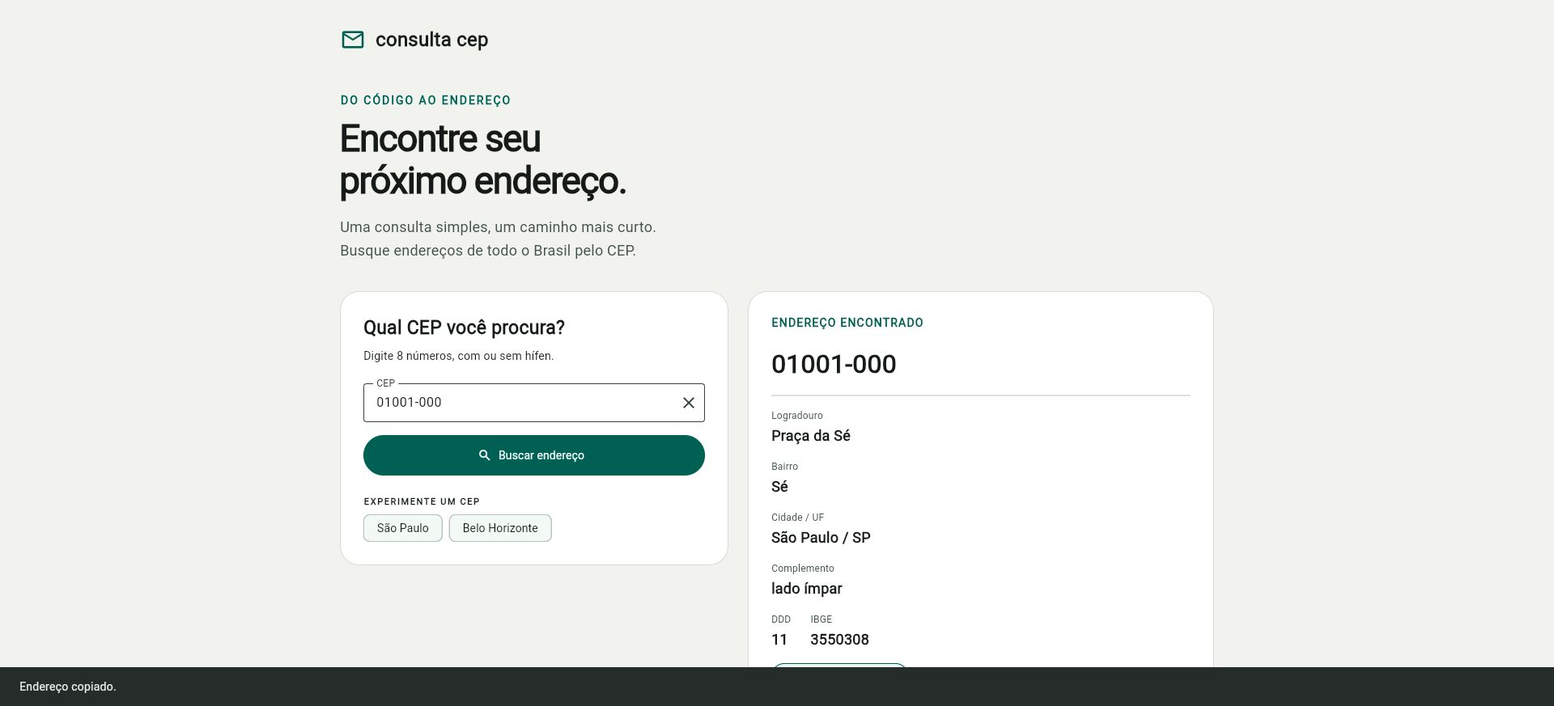
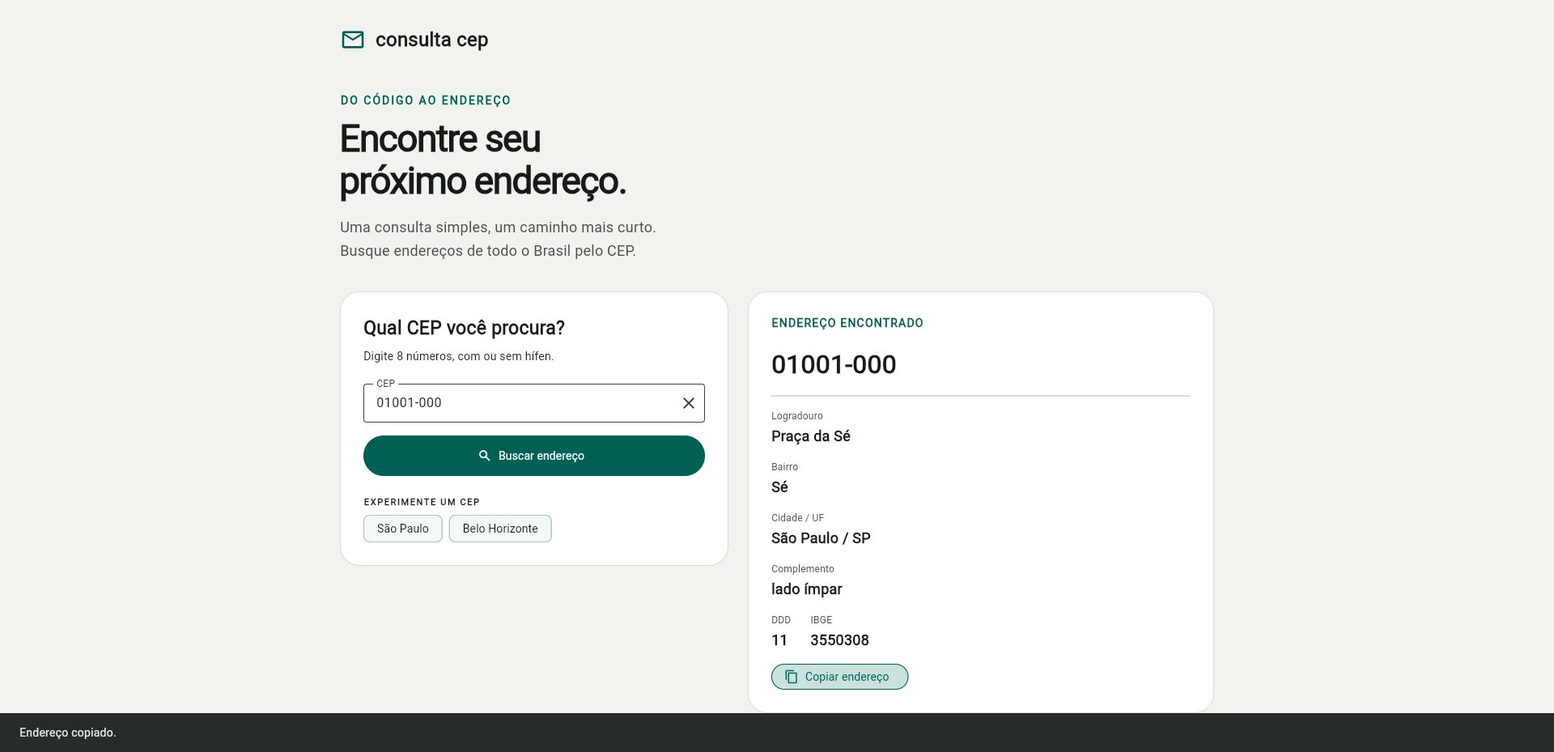
docs: align lesson and evidence with Flutter 3.50
Update verified requirements, badges, source excerpts and real screenshots. Explain the two remaining upstream SDK constraints and retain the actual resolver report and validation log.

diff --git a/docs/medium/article.pt-BR.html b/docs/medium/article.pt-BR.html
@@ -2,12 +2,12 @@
 <figure><img src="https://raw.githubusercontent.com/kleberandrade/search-cep-aulas-flutter/master/docs/medium/cover.png" alt="Capa: Consultando CEPs com Flutter. Envelope com símbolo Flutter, marcador de localização e mapa do Brasil em tons de verde. Subtítulo: Da validação ao endereço com ViaCEP."><figcaption>Ilustração de capa criada com auxílio de IA para esta atualização. As telas ao longo da aula são capturas reais do aplicativo.</figcaption></figure>
 <p>Como transformar oito números em um endereço legível? Nesta aula vamos consultar o ViaCEP com Flutter, validar a entrada antes de acessar a rede e apresentar o resultado em uma interface acessível. O objetivo é compreender cada responsabilidade, do campo de texto até a resposta HTTP, e aprender a lidar com os caminhos em que a consulta falha.</p>
 <p>O CEP — Código de Endereçamento Postal — tem oito algarismos. Ele pode identificar um logradouro, uma localidade ou uma unidade específica. Por isso, um retorno sem rua ou bairro não significa necessariamente um erro. Os zeros à esquerda também fazem parte do código: CEP é texto, não um número para fazer contas.</p>
-<p><strong>Atualização da aula, novembro de 2026:</strong> o projeto foi migrado para Flutter 3.41.9, Dart 3.11.5, null safety e Material 3. O título, a autoria e a finalidade desta nota de aula de 2019 foram mantidos. Os exemplos abaixo acompanham o código atual do repositório; os antigos componentes e capturas foram substituídos.</p>
+<p><strong>Atualização da aula, novembro de 2026:</strong> o projeto foi migrado para Flutter 3.50.0, Dart 3.14.0, null safety e Material 3. O título, a autoria e a finalidade desta nota de aula de 2019 foram mantidos. Os exemplos abaixo acompanham o código atual do repositório; os antigos componentes e capturas foram substituídos.</p>
 <h2>O que você vai aprender</h2>
 <ul><li>Validar e normalizar um CEP sem perder zeros à esquerda.</li><li>Fazer uma requisição HTTPS com um cliente HTTP que pode ser substituído nos testes.</li><li>Converter JSON em um endereço imutável e validar dados externos.</li><li>Distinguir carregamento, sucesso, entrada inválida, CEP inexistente e falha de conexão.</li><li>Impedir que uma resposta atrasada substitua uma pesquisa mais recente.</li><li>Testar a lógica e a interface usando exemplos controlados.</li></ul>
 <h2>1. Prepare o laboratório</h2>
-<p>Você precisa conhecer classes, funções e widgets básicos do Flutter. Instale Flutter 3.41.9 stable com o Dart 3.11.5 que acompanha essa versão e tenha Chrome disponível. Nesta aula usaremos a Web para facilitar a experimentação; não é necessário configurar um emulador ou obter uma chave de API.</p>
-<p>Clone a versão completa para executar o laboratório. Os blocos a seguir analisam partes do projeto, não substituem todos os arquivos de um aplicativo criado do zero.</p>
+<p>Você precisa conhecer classes, funções e widgets básicos do Flutter. Instale Flutter 3.50.0 stable com o Dart 3.14.0 que acompanha essa versão e tenha Chrome disponível. Nesta aula usaremos a Web para facilitar a experimentação; não é necessário configurar um emulador ou obter uma chave de API.</p>
+<p>O arquivo <code>.fvmrc</code> registra Flutter 3.50.0 para quem usa FVM. Você também pode selecionar essa versão pela instalação oficial do Flutter. Confirme que <code>flutter --version</code> mostra Flutter 3.50.0 e Dart 3.14.0 antes de continuar. Clone a versão completa para executar o laboratório. Os blocos a seguir analisam partes do projeto, não substituem todos os arquivos de um aplicativo criado do zero.</p>
 <pre><code class="language-bash">git clone https://github.com/kleberandrade/search-cep-aulas-flutter.git
 cd search-cep-aulas-flutter
 flutter --version
@@ -16,20 +16,19 @@ flutter run -d chrome</code></pre>
 <p><strong>Checkpoint:</strong> a tela deve mostrar o campo CEP, o botão “Buscar endereço” e um painel aguardando a primeira consulta. Se o Flutter não encontrar Chrome, verifique os dispositivos com <code>flutter devices</code>.</p>
 <figure><img src="https://raw.githubusercontent.com/kleberandrade/search-cep-aulas-flutter/master/docs/screenshots/web-empty.jpg" alt="Tela inicial do Consulta CEP no navegador, com campo CEP, botão Buscar endereço, exemplos e painel aguardando a consulta."><figcaption>Figura 1 — Estado inicial real: o formulário explica o formato aceito e o painel informa onde aparecerá o resultado.</figcaption></figure>
 <h2>2. Entenda as dependências</h2>
-<p>O <a href="https://github.com/kleberandrade/search-cep-aulas-flutter/blob/master/pubspec.yaml">pubspec.yaml</a> declara <code>http: ^1.6.0</code> para as requisições e <code>flutter_lints: ^6.0.0</code> para análise estática. <code>flutter_localizations</code> e <code>flutter_test</code> vêm do SDK. O projeto não precisa de Firebase, cadastro nem banco de dados.</p>
+<p>O <a href="https://github.com/kleberandrade/search-cep-aulas-flutter/blob/master/pubspec.yaml">pubspec.yaml</a> declara <code>http: ^1.6.0</code> para as requisições e <code>flutter_lints: ^6.0.0</code> para análise estática. <code>material_ui: ^1.11.1</code> fornece os widgets Material e suas traduções; <code>flutter_test</code> vem do SDK. No Flutter 3.50, usamos <code>package:material_ui/material_ui.dart</code> no lugar do import Material que foi descontinuado dentro do framework. As traduções continuam configuradas por <code>GlobalMaterialLocalizations.delegates</code>. O projeto não precisa de Firebase, cadastro nem banco de dados.</p>
 <pre><code class="language-yaml">name: search_cep
 description: Accessible Brazilian postal code lookup with Flutter and ViaCEP.
 publish_to: none
 version: 2.0.0+2
 environment:
-  sdk: &#x27;&gt;=3.11.0 &lt;4.0.0&#x27;
-  flutter: &#x27;&gt;=3.41.0&#x27;
+  sdk: &#x27;&gt;=3.14.0 &lt;4.0.0&#x27;
+  flutter: &#x27;&gt;=3.50.0&#x27;
 dependencies:
   flutter:
     sdk: flutter
-  flutter_localizations:
-    sdk: flutter
   http: ^1.6.0
+  material_ui: ^1.11.1
 dev_dependencies:
   flutter_test:
     sdk: flutter
@@ -43,7 +42,7 @@ flutter:
 flutter pub upgrade --major-versions
 flutter analyze
 flutter test</code></pre>
-<p>Na verificação desta atualização, todas as dependências diretas e de desenvolvimento já estavam atualizadas. Nove dependências transitivas têm versões mais novas, mas continuam fixadas pelas restrições compatíveis com este SDK. A versão “Latest” exibida pelo Pub não significa, por si só, que ela pode ser usada com o Flutter instalado. Mantenha o conjunto coerente ao atualizar o SDK.</p>
+<p>A atualização para Flutter 3.50.0 e Dart 3.14.0 permitiu avançar oito dos nove pacotes transitivos antes desatualizados. Sete chegaram à versão mais recente: clock 1.1.3, intl 0.20.3, matcher 0.12.20, meta 1.19.0, stack_trace 1.12.2, vector_math 2.4.4 e web 1.1.2. O test_api também avançou, de 0.7.10 para 0.7.14, mas a versão mais nova é 0.7.15. O SDK estável ainda fixa material_color_utilities em 0.13.0 e flutter_test fixa test_api em 0.7.14. Por isso, essas duas versões mais novas não são resolvíveis neste conjunto. Não alteramos o SDK nem usamos overrides para forçar a resolução. A coluna “Latest” do Pub mostra a versão publicada; “Resolvable” mostra o que pode ser usado com o conjunto instalado.</p>
 <h2>3. API, HTTPS e JSON: o caminho da consulta</h2>
 <p>Uma API é uma interface pela qual programas trocam informações. Aqui o aplicativo envia uma requisição GET ao ViaCEP e recebe um documento JSON. JSON é o formato dos dados; o endereço na tela é a interpretação desses dados pelo nosso código.</p>
 <pre><code class="language-plaintext">https://viacep.com.br/ws/01001000/json/</code></pre>
@@ -235,7 +234,7 @@ class SearchController extends ChangeNotifier {
 }</code></pre>
 <p>Observe a sequência em <code>search</code>: validar, emitir carregamento, esperar o serviço e publicar o resultado se a geração ainda for atual. <code>inputChanged</code> invalida a consulta anterior, e <code>dispose</code> impede notificações depois que o controlador foi encerrado.</p>
 <h2>8. Apresente informações em vez de JSON bruto</h2>
-<p>Em <a href="https://github.com/kleberandrade/search-cep-aulas-flutter/blob/master/lib/main.dart">main.dart</a>, <code>CepApp</code> configura Material 3 e a localização em português. O widget proprietário cria o cliente e o controlador quando eles não são injetados e libera esses recursos no descarte. A <a href="https://github.com/kleberandrade/search-cep-aulas-flutter/blob/master/lib/views/home_page.dart">HomePage completa</a> separa formulário, painel de status e cartão de endereço em widgets.</p>
+<p>Em <a href="https://github.com/kleberandrade/search-cep-aulas-flutter/blob/master/lib/main.dart">main.dart</a>, <code>CepApp</code> configura Material 3 e a localização em português usando o pacote independente <code>material_ui</code>. O widget proprietário cria o cliente e o controlador quando eles não são injetados e libera esses recursos no descarte. A <a href="https://github.com/kleberandrade/search-cep-aulas-flutter/blob/master/lib/views/home_page.dart">HomePage completa</a> separa formulário, painel de status e cartão de endereço em widgets.</p>
 <p>O campo usa <code>TextInputAction.search</code>: pressionar Enter realiza a busca. O botão Limpar CEP apaga entrada e resultado e devolve o foco ao campo. O texto permanece editável durante a consulta, e os estados de carregamento e erro não bloqueiam uma nova tentativa.</p>
 <p>Este trecho real de <code>HomePage</code> escolhe a apresentação de cada estado:</p>
 <pre><code class="language-dart">  Widget _result(search.SearchState state) =&gt; switch (state) {
@@ -255,8 +254,7 @@ class SearchController extends ChangeNotifier {
     search.SearchIdle() =&gt; const _StatusPanel(
       icon: Icons.location_on_outlined,
       title: &#x27;Seu próximo destino começa aqui&#x27;,
-      message:
-          &#x27;O endereço aparecerá aqui após a consulta.\nSe preferir, comece por um dos exemplos.&#x27;,
+      message: &#x27;O endereço aparecerá aqui após a consulta.\nSe preferir, comece por um dos exemplos.&#x27;,
     ),
   };</code></pre>
 <p>O retorno é exibido em campos selecionáveis: CEP, logradouro, bairro, cidade/UF, complemento, DDD e IBGE, conforme o que o serviço informar. Os valores também possuem rótulos acessíveis, e as mudanças de estado são anunciadas pela semântica do Flutter. O botão Copiar endereço mostra uma confirmação; se a área de transferência falhar, o texto continua disponível para seleção.</p>
@@ -276,7 +274,7 @@ flutter build web</code></pre>
 <p>O código dos testes está em <a href="https://github.com/kleberandrade/search-cep-aulas-flutter/blob/master/test/lookup_test.dart">test/lookup_test.dart</a>, <a href="https://github.com/kleberandrade/search-cep-aulas-flutter/blob/master/test/demo_test.dart">test/demo_test.dart</a> e <a href="https://github.com/kleberandrade/search-cep-aulas-flutter/blob/master/test/widget_test.dart">test/widget_test.dart</a>. Eles usam fixtures e <code>MockClient</code>; não acessam a API real. Na validação desta versão, 21 testes passaram e a cobertura de linhas medida foi de 90,8%. Esse número não substitui os cenários de teste nem representa cobertura de mutação.</p>
 <p>Para uma verificação separada contra o serviço real, use:</p>
 <pre><code class="language-bash">dart run tool/smoke.dart</code></pre>
-<p>O comando consulta <code>01001-000</code> e confere São Paulo/SP. Ele depende da rede e da disponibilidade do ViaCEP e não faz parte da suíte determinística do CI. O build Web e a consulta pelo navegador foram validados; macOS debug e iOS sem assinatura também compilaram. Isso não equivale a teste em telefone físico. Android ainda depende de licenças aceitas pelo desenvolvedor; macOS release apresentou uma limitação de empacotamento nesta combinação de ferramentas.</p>
+<p>O comando consulta <code>01001-000</code> e confere São Paulo/SP. Ele depende da rede e da disponibilidade do ViaCEP e não faz parte da suíte determinística do CI. O build Web e a consulta pelo navegador foram validados; macOS debug e iOS sem assinatura também compilaram. Isso não equivale a teste em telefone físico. Android ainda depende de licenças aceitas pelo desenvolvedor. Com Flutter 3.50.0, o build macOS release e o build iOS sem assinatura passaram; a falha anterior de empacotamento macOS não se repetiu. Compilar não substitui a verificação de interação em cada plataforma.</p>
 <h2>Exercícios para continuar a aula</h2>
 <ol><li>Acrescente alternância entre temas claro e escuro usando <code>ThemeMode</code>. Verifique o contraste nos dois temas.</li><li>Adicione outro exemplo offline e um teste que confirme o endereço correto. Mantenha clara a diferença entre demonstração e consulta real.</li><li>Teste navegação com Tab, Enter e leitor de tela. Confira os valores do endereço, não apenas os títulos dos campos.</li><li>Escreva um teste em que a primeira busca termina depois da segunda e explique por que a geração impede o resultado antigo.</li><li>Se implementar histórico, defina uma ação de limpeza e teste a migração antes de alterar o formato armazenado.</li></ol>
 <p>Validação e tratamento de erro, antes propostos como desafios, agora fazem parte da implementação. Os componentes nativos de status e <code>SnackBar</code> atendem às mensagens desta aula. As antigas sugestões de <code>dynamic_theme</code>, <code>flushbar</code> e <code>share</code> não são dependências atuais do projeto.</p>

diff --git a/README.md b/README.md
@@ -1,7 +1,7 @@
 # Brazilian Postal Code Lookup
 
-[![Flutter 3.41.9](https://img.shields.io/badge/Flutter-3.41.9-02569B)](https://docs.flutter.dev/)
-[![Dart 3.11.5](https://img.shields.io/badge/Dart-3.11.5-0175C2)](https://dart.dev/)
+[![Flutter 3.50.0](https://img.shields.io/badge/Flutter-3.50.0-02569B)](https://docs.flutter.dev/)
+[![Dart 3.14.0](https://img.shields.io/badge/Dart-3.14.0-0175C2)](https://dart.dev/)
 [![License MIT](https://img.shields.io/badge/License-MIT-555555)](LICENSE)
 
 A Flutter classroom app for looking up Brazilian postal codes through [ViaCEP](https://viacep.com.br/). It validates input, handles service failures, and presents selectable address details in a responsive Material 3 interface. No API key, Firebase project, account, or database is needed.
@@ -10,7 +10,18 @@ A Flutter classroom app for looking up Brazilian postal codes through [ViaCEP](h
 
 ## Run
 
-Verified toolchain: Flutter **3.41.9** stable with Dart **3.11.5**, Chrome 157, and Xcode 27.2 on macOS. The manifest requires Dart >=3.11.0 <4.0.0 and Flutter >=3.41.0. Use the pinned toolchain for reproducible builds; newer SDKs have not been verified.
+Install the pinned SDK through the [official Flutter instructions](https://docs.flutter.dev/install/manual), or use `fvm use 3.50.0` if you manage SDKs with FVM. An isolated tagged checkout is another reproducible option after cloning this repository:
+
+```sh
+git clone --depth 1 --branch 3.50.0 https://github.com/flutter/flutter.git ../flutter-3.50.0
+export PATH="$PWD/../flutter-3.50.0/bin:$PATH"
+flutter --version
+```
+
+This selects the new SDK only in the current terminal; it does not upgrade the SDK used by other projects.
+
+
+Verified toolchain: Flutter **3.50.0** stable with Dart **3.14.0**, Chrome 157, and Xcode 27.2 on macOS. The manifest requires Dart >=3.14.0 <4.0.0 and Flutter >=3.50.0. The project pins Flutter 3.50.0 in `.fvmrc` and CI. Use this SDK for all commands below; Dart comes bundled with Flutter. The shared system installation is not modified by this project.
 
 ```sh
 git clone https://github.com/kleberandrade/search-cep-aulas-flutter.git
@@ -52,7 +63,7 @@ flutter build web
 # Optional integration check: contacts the actual external service
 dart run tool/smoke.dart
 # Native builds require the corresponding local toolchain
-flutter build macos --debug
+flutter build macos
 flutter build ios --no-codesign
 flutter build apk --debug
 ```
@@ -71,9 +82,11 @@ Open `http://127.0.0.1:8766`. A production host must serve the generated `build/
 
 ## Migration from the 2019 classroom version
 
-Dart 2 nullable mutable fields were replaced with Dart 3 null-safe immutable boundary parsing. `RaisedButton` was replaced with Material 3 buttons, raw JSON output with address fields, and static `fetchCep` with an injected service: `ViaCepService(client).lookup(Cep.parse(input))`. The HTTP client belongs to the caller, which must close it. Code using the old internal Dart API must adopt this call; this application is not a published package.
+Dart 2 nullable mutable fields were replaced with Dart 3 null-safe immutable boundary parsing. The current Flutter 3.50 migration uses the official standalone `material_ui` 1.11.1 package and its localization delegates, replacing the deprecated `package:flutter/material.dart` imports. `flutter_localizations` is now transitive rather than an application dependency. `RaisedButton` was replaced with Material 3 buttons, raw JSON output with address fields, and static `fetchCep` with an injected service: `ViaCepService(client).lookup(Cep.parse(input))`. The HTTP client belongs to the caller, which must close it. Code using the old internal Dart API must adopt this call; this application is not a published package.
 
 Android now uses the Flutter plugin DSL, Kotlin 2.2.20, AGP 8.11.1, Gradle 8.14 and Java 17 source compatibility; SDK levels follow the installed Flutter defaults. INTERNET permission is present in the release manifest. Android retains `com.example.search_cep` and iOS retains `com.example.searchCep`; configure signing and a production identifier before distributing your own app. Local SDK paths and generated registrants are no longer tracked.
+
+The Flutter 3.50 upgrade advanced eight of the nine previously outdated transitives: clock 1.1.3, intl 0.20.3, matcher 0.12.20, meta 1.19.0, stack_trace 1.12.2, test_api 0.7.14, vector_math 2.4.4 and web 1.1.2. Seven reached the latest available version. Two newer versions remain blocked by exact constraints in the official stable SDK: `material_color_utilities` is pinned to 0.13.0 (latest 0.13.1), and `flutter_test` pins `test_api` to 0.7.14 (latest 0.7.15). No SDK edits or dependency overrides are used. See `docs/dependencies-flutter-3.50.json` for the actual resolver report.
 
 The iOS runner uses the modern Flutter scene lifecycle; its minimum target is iOS 15. macOS minimum is 12 to match the available Xcode toolchain. Web and macOS runners were added from the installed Flutter templates. Original iOS artwork and MIT attribution are preserved. Android licenses must be accepted by the developer, never by automation. No persistent store existed before or after this migration, so no data migration is needed.
 

diff --git a/docs/medium-update.pt-BR.md b/docs/medium-update.pt-BR.md
@@ -14,7 +14,7 @@ Preserve o título “Consultando CEPs com Flutter”, o subtítulo “Notas de 
 
 ## Texto de atualização para inserir após a introdução
 
-Esta aula foi atualizada para Flutter 3.41.9 e Dart 3.11.5, com null safety e Material 3. Vamos consultar o ViaCEP sem chave de API, validar o CEP antes da requisição e apresentar um endereço legível. Também vamos tratar conexão indisponível, timeout, CEP inexistente e respostas inválidas. A consulta é enviada ao ViaCEP; o aplicativo não salva histórico nem endereços no dispositivo.
+Esta aula foi atualizada para Flutter 3.50.0 e Dart 3.14.0, com null safety e Material 3. Vamos consultar o ViaCEP sem chave de API, validar o CEP antes da requisição e apresentar um endereço legível. Também vamos tratar conexão indisponível, timeout, CEP inexistente e respostas inválidas. A consulta é enviada ao ViaCEP; o aplicativo não salva histórico nem endereços no dispositivo.
 
 ## Criando e executando o projeto
 
@@ -28,7 +28,7 @@ flutter pub get
 flutter run -d chrome
 ```
 
-A versão verificada é Flutter 3.41.9 com Dart 3.11.5. Para experimentar o exemplo local, sem fazer consultas externas, execute:
+A versão verificada é Flutter 3.50.0 com Dart 3.14.0. Para experimentar o exemplo local, sem fazer consultas externas, execute:
 
 ```sh
 flutter run -d chrome --dart-define=DEMO=true
@@ -60,7 +60,7 @@ Use HTTPS e mantenha o CEP da URL coerente com o retorno. O artigo antigo exibia
 
 ## Dependências e código completo atualizado
 
-Substitua os embeds correspondentes às seções Dependências, Classe ResultCep, Classe ViaCepService, Classe Principal e Classe HomePage pelos respectivos arquivos abaixo. As seções de Cep e SearchController são novas. A classe de modelo converte dados em memória; não existe persistência neste exemplo. A biblioteca `http` recebe um `Uri` e um cliente injetável, que é fechado pelo proprietário da aplicação.
+Substitua os embeds correspondentes às seções Dependências, Classe ResultCep, Classe ViaCepService, Classe Principal e Classe HomePage pelos respectivos arquivos abaixo. As seções de Cep e SearchController são novas. A classe de modelo converte dados em memória; não existe persistência neste exemplo. No Flutter 3.50, a interface importa `package:material_ui/material_ui.dart`; os delegates de localização vêm desse pacote. A biblioteca `http` recebe um `Uri` e um cliente injetável, que é fechado pelo proprietário da aplicação.
 
 ### `pubspec.yaml`
 
@@ -70,14 +70,13 @@ description: Accessible Brazilian postal code lookup with Flutter and ViaCEP.
 publish_to: none
 version: 2.0.0+2
 environment:
-  sdk: '>=3.11.0 <4.0.0'
-  flutter: '>=3.41.0'
+  sdk: '>=3.14.0 <4.0.0'
+  flutter: '>=3.50.0'
 dependencies:
   flutter:
     sdk: flutter
-  flutter_localizations:
-    sdk: flutter
   http: ^1.6.0
+  material_ui: ^1.11.1
 dev_dependencies:
   flutter_test:
     sdk: flutter
@@ -112,6 +111,7 @@ final class Cep {
 
 ```dart
 import 'dart:convert';
+
 import '../domain/cep.dart';
 
 /// Immutable validated response. Empty optional fields are legitimate in ViaCEP.
@@ -176,7 +176,9 @@ final class ResultCep {
 ```dart
 import 'dart:async';
 import 'dart:convert';
+
 import 'package:http/http.dart' as http;
+
 import '../domain/cep.dart';
 import '../models/result_cep.dart';
 
@@ -247,6 +249,7 @@ class ViaCepService implements AddressLookup {
 
 ```dart
 import 'package:flutter/services.dart';
+
 import '../domain/cep.dart';
 import '../models/result_cep.dart';
 import 'via_cep_service.dart';
@@ -269,6 +272,7 @@ final class DemoCepService implements AddressLookup {
 
 ```dart
 import 'package:flutter/foundation.dart';
+
 import '../domain/cep.dart';
 import '../models/result_cep.dart';
 import '../services/via_cep_service.dart';
@@ -346,9 +350,9 @@ class SearchController extends ChangeNotifier {
 ### `lib/main.dart`
 
 ```dart
-import 'package:flutter/material.dart';
-import 'package:flutter_localizations/flutter_localizations.dart';
+import 'package:material_ui/material_ui.dart';
 import 'package:http/http.dart' as http;
+
 import 'services/via_cep_service.dart';
 import 'services/demo_cep_service.dart';
 import 'state/search_controller.dart' as search;
@@ -412,8 +416,9 @@ class _HomeState extends State<_Home> {
 ### `lib/views/home_page.dart`
 
 ```dart
-import 'package:flutter/material.dart';
+import 'package:material_ui/material_ui.dart';
 import 'package:flutter/services.dart';
+
 import '../models/result_cep.dart';
 import '../state/search_controller.dart' as search;
 
@@ -629,8 +634,7 @@ class _HomePageState extends State<HomePage> {
     search.SearchIdle() => const _StatusPanel(
       icon: Icons.location_on_outlined,
       title: 'Seu próximo destino começa aqui',
-      message:
-          'O endereço aparecerá aqui após a consulta.\nSe preferir, comece por um dos exemplos.',
+      message: 'O endereço aparecerá aqui após a consulta.\nSe preferir, comece por um dos exemplos.',
     ),
   };
 }

diff --git a/docs/modernization-log.md b/docs/modernization-log.md
@@ -53,3 +53,13 @@ No screen-reader hardware test, physical phone test, Android certification, prod
 - Checked all 13 imported code blocks against the authored source excerpts: all matched exactly (apart from intentionally omitted empty source lines). Corrected syntax highlighting to Bash/YAML/JSON/Dart/plain text through the editor UI. Wrapped CEP examples in inline code to preserve copyable ASCII hyphens.
 - Clicked the normal “Save and publish” action. Verified the returned public page at `https://medium.com/flutter-comunidade-br/consultando-ceps-com-flutter-a395b86ce34a?postPublishedType=repub`, its updated teaching sections, all five loaded images, captions and 13 code blocks. The `og:image` now points to the new cover (`0*it0o7XiigA8k_T4I.png`), confirming the sharing cover changed too. No subscriber email/newsletter action was used.
 - Publication evidence: `docs/medium/published-cover.jpg` and `docs/medium/published-lesson.jpg`. The article source, cover and package audit are kept in the repository. No content from other authors was edited.
+
+## Follow-up: Flutter 3.50 / Dart 3.14
+
+- User explicitly authorized upgrading Flutter/Dart to unlock transitives. Verified the official stable release tag `3.50.0` at framework revision `ab2912035e160d9cad6306df307576da6128ebdb` and its bundled Dart 3.14.0. Installed that exact tagged SDK in `/Users/kleber/Projects/.toolchains/search-cep/flutter-3.50.0`, separate from the system Flutter 3.41.9; no SDK used by another project was overwritten.
+- Ran the existing 21-test suite on the new SDK before the Material import migration: all passed. Migrated imports/localizations to official `material_ui` 1.11.1, set the project's Dart/Flutter minimums to 3.14/3.50, added `.fvmrc`, pinned CI to 3.50.0 and updated checkout to v6. Dart 3.14 formatting and Flutter's generated analyzer exclusions were applied.
+- `flutter pub upgrade --major-versions` advanced eight formerly outdated versions: clock 1.1.3, intl 0.20.3, matcher 0.12.20, meta 1.19.0, stack_trace 1.12.2, test_api 0.7.14, vector_math 2.4.4 and web 1.1.2. Seven reached latest. `material_color_utilities` is still exactly pinned by `packages/flutter/pubspec.yaml` to 0.13.0 (latest 0.13.1), and `packages/flutter_test/pubspec.yaml` pins test_api to 0.7.14 (latest 0.7.15). The official SDK was not edited and no overrides were added. Actual Pub resolver report: `docs/dependencies-flutter-3.50.json`.
+- New SDK checks: analyze clean; all 21 tests passed with coverage; Web release build passed; macOS release build passed (42.8 MB); iOS release without signing passed (16.3 MB). The old macOS release packaging failure did not recur. No Android licenses were accepted; Android still reports pending licenses. No new physical-device or simulator interaction claim is made.
+- Re-ran the real ViaCEP smoke: `LIVE ViaCEP OK: 01001-000, São Paulo/SP`. Opened the newly compiled Web app, checked invalid input, Enter-to-search, real address, accessible values, copy confirmation and a 390px responsive layout. Refreshed the real Web screenshots.
+- The isolated tagged checkout reports `[user-branch]` because it is checked out at a release tag; it is the exact official stable release revision. Doctor also reports the older system SDK on PATH. All recorded upgrade checks explicitly invoked the isolated SDK binary; documentation explains selecting the pinned SDK per terminal/FVM rather than changing the shared installation.
+- Updated README badges/setup and the Portuguese teaching source with tested versions, standalone Material explanation, current source excerpts and the exact remaining SDK constraints. Medium publication verification follows after applying the revision.

diff --git a/docs/medium/README.md b/docs/medium/README.md
@@ -14,6 +14,6 @@ Generated with the built-in image tool on 2026-11-17. Flutter branding remains s
 
 Updated and republished on 2026-11-17 at the original URL above. Title, subtitle, authorship and publication identity were preserved. The cover is also the page's sharing image. All five images loaded successfully with captions/alternative text, and all 13 imported code blocks matched the prepared excerpts. No subscriber email/newsletter was sent.
 
-Evidence: `published-cover.jpg`, `published-lesson.jpg`. Local application validation after checking all packages: analyze clean, 21 tests passed. All direct/development packages were current; nine transitives remain pinned by the compatible SDK dependency graph.
+Evidence: `published-cover.jpg`, `published-lesson.jpg`. Local application validation after checking all packages: analyze clean, 21 tests passed. All direct/development packages were current; Flutter 3.50.0 / Dart 3.14.0 now advance eight of the original nine outdated transitives; two latest versions remain blocked by exact official SDK pins. The article explains both constraints.
 
 The archived `../medium-update.pt-BR.md` is a complete technical reference; `article.pt-BR.html` is the didactic publication source.
